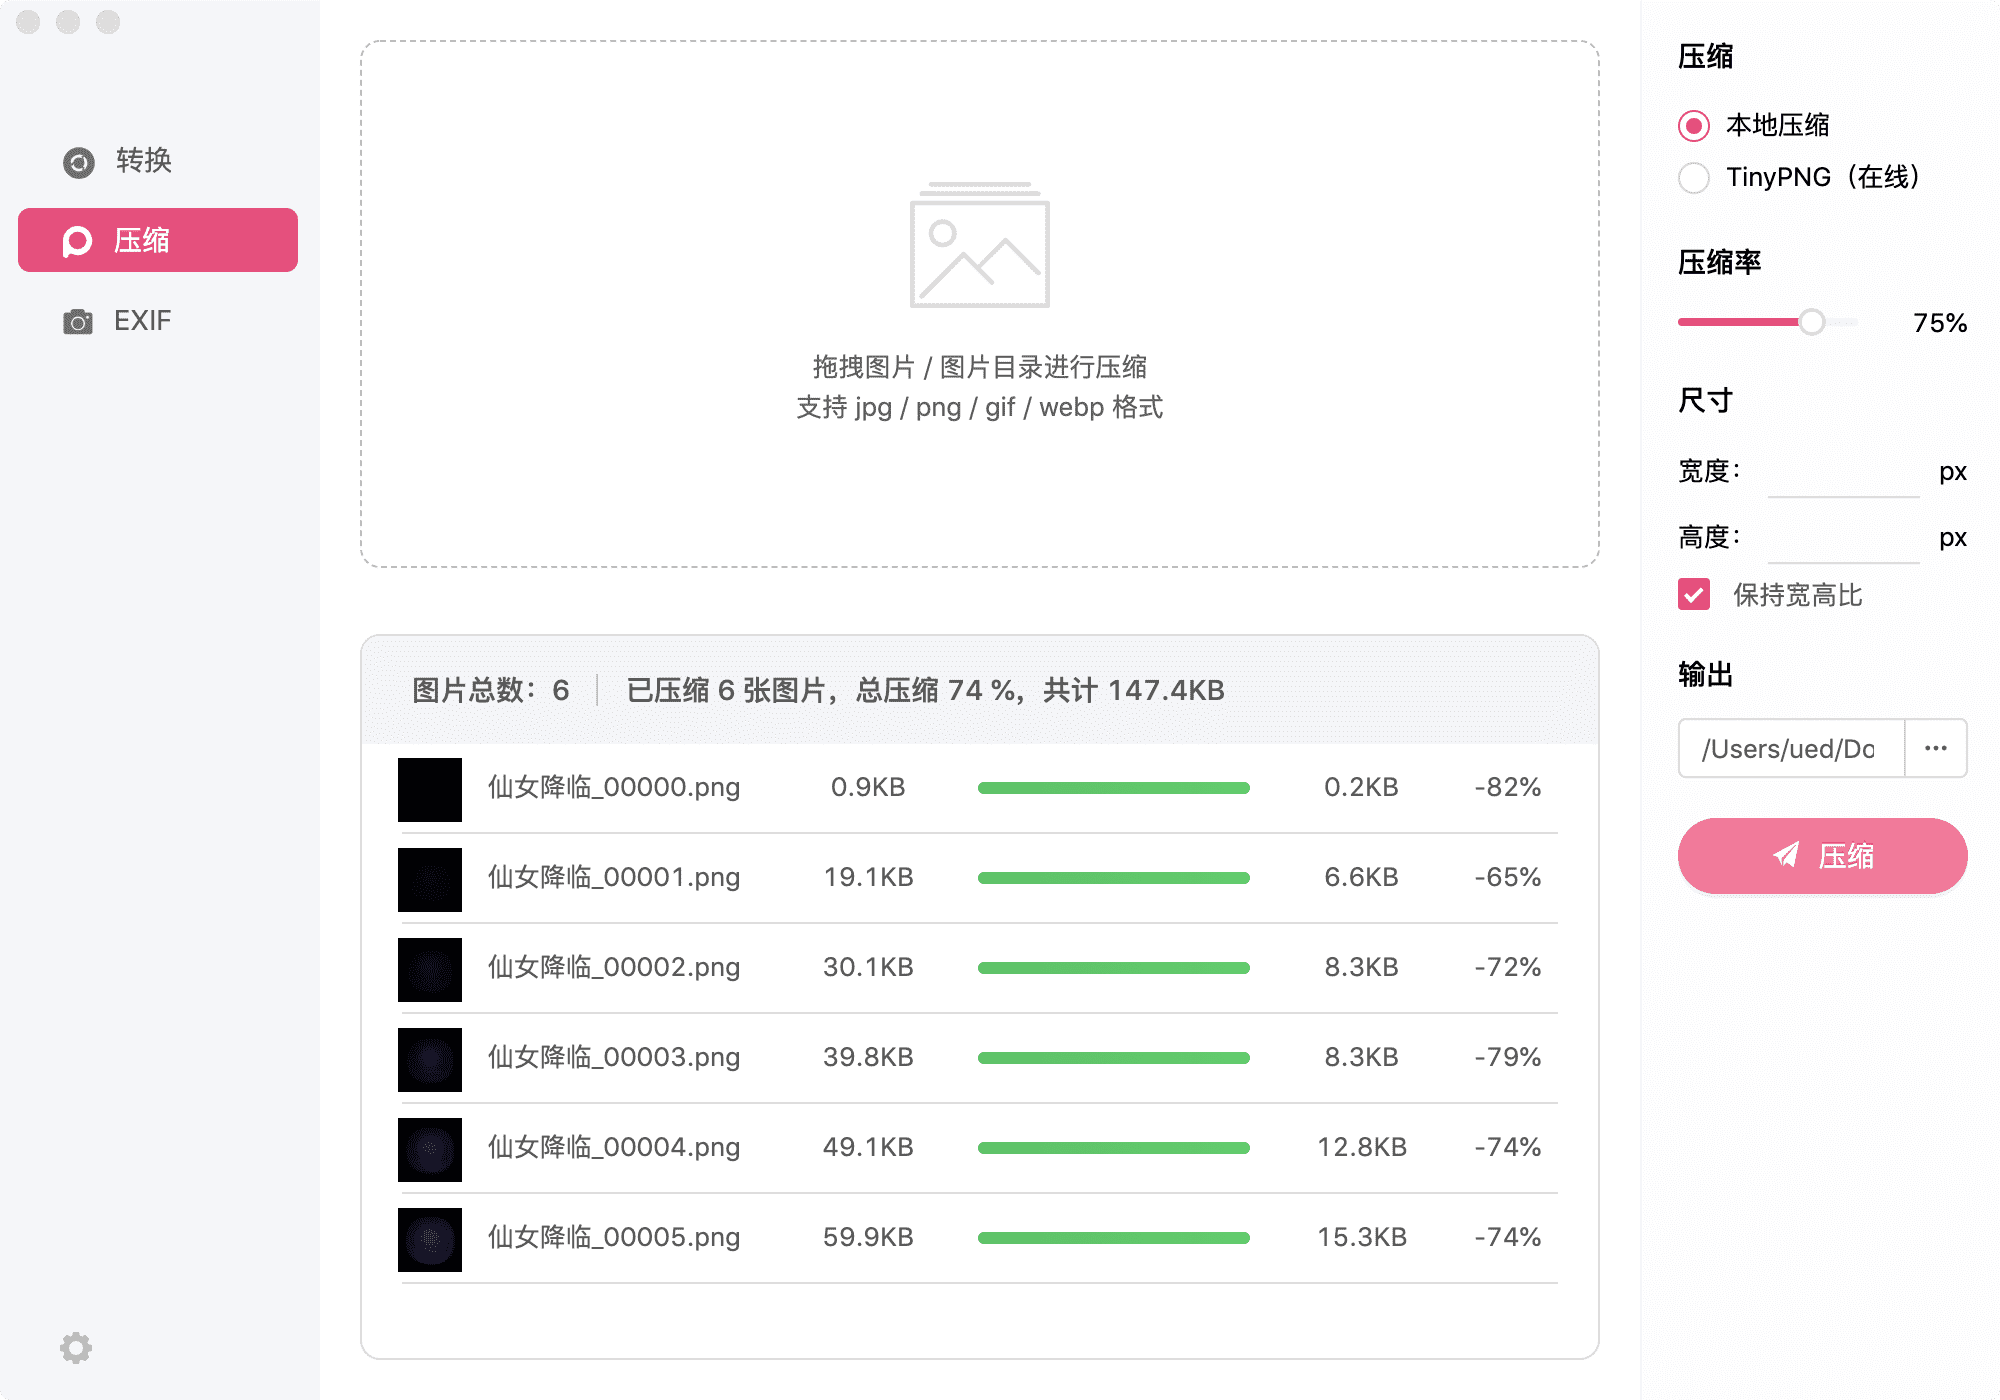
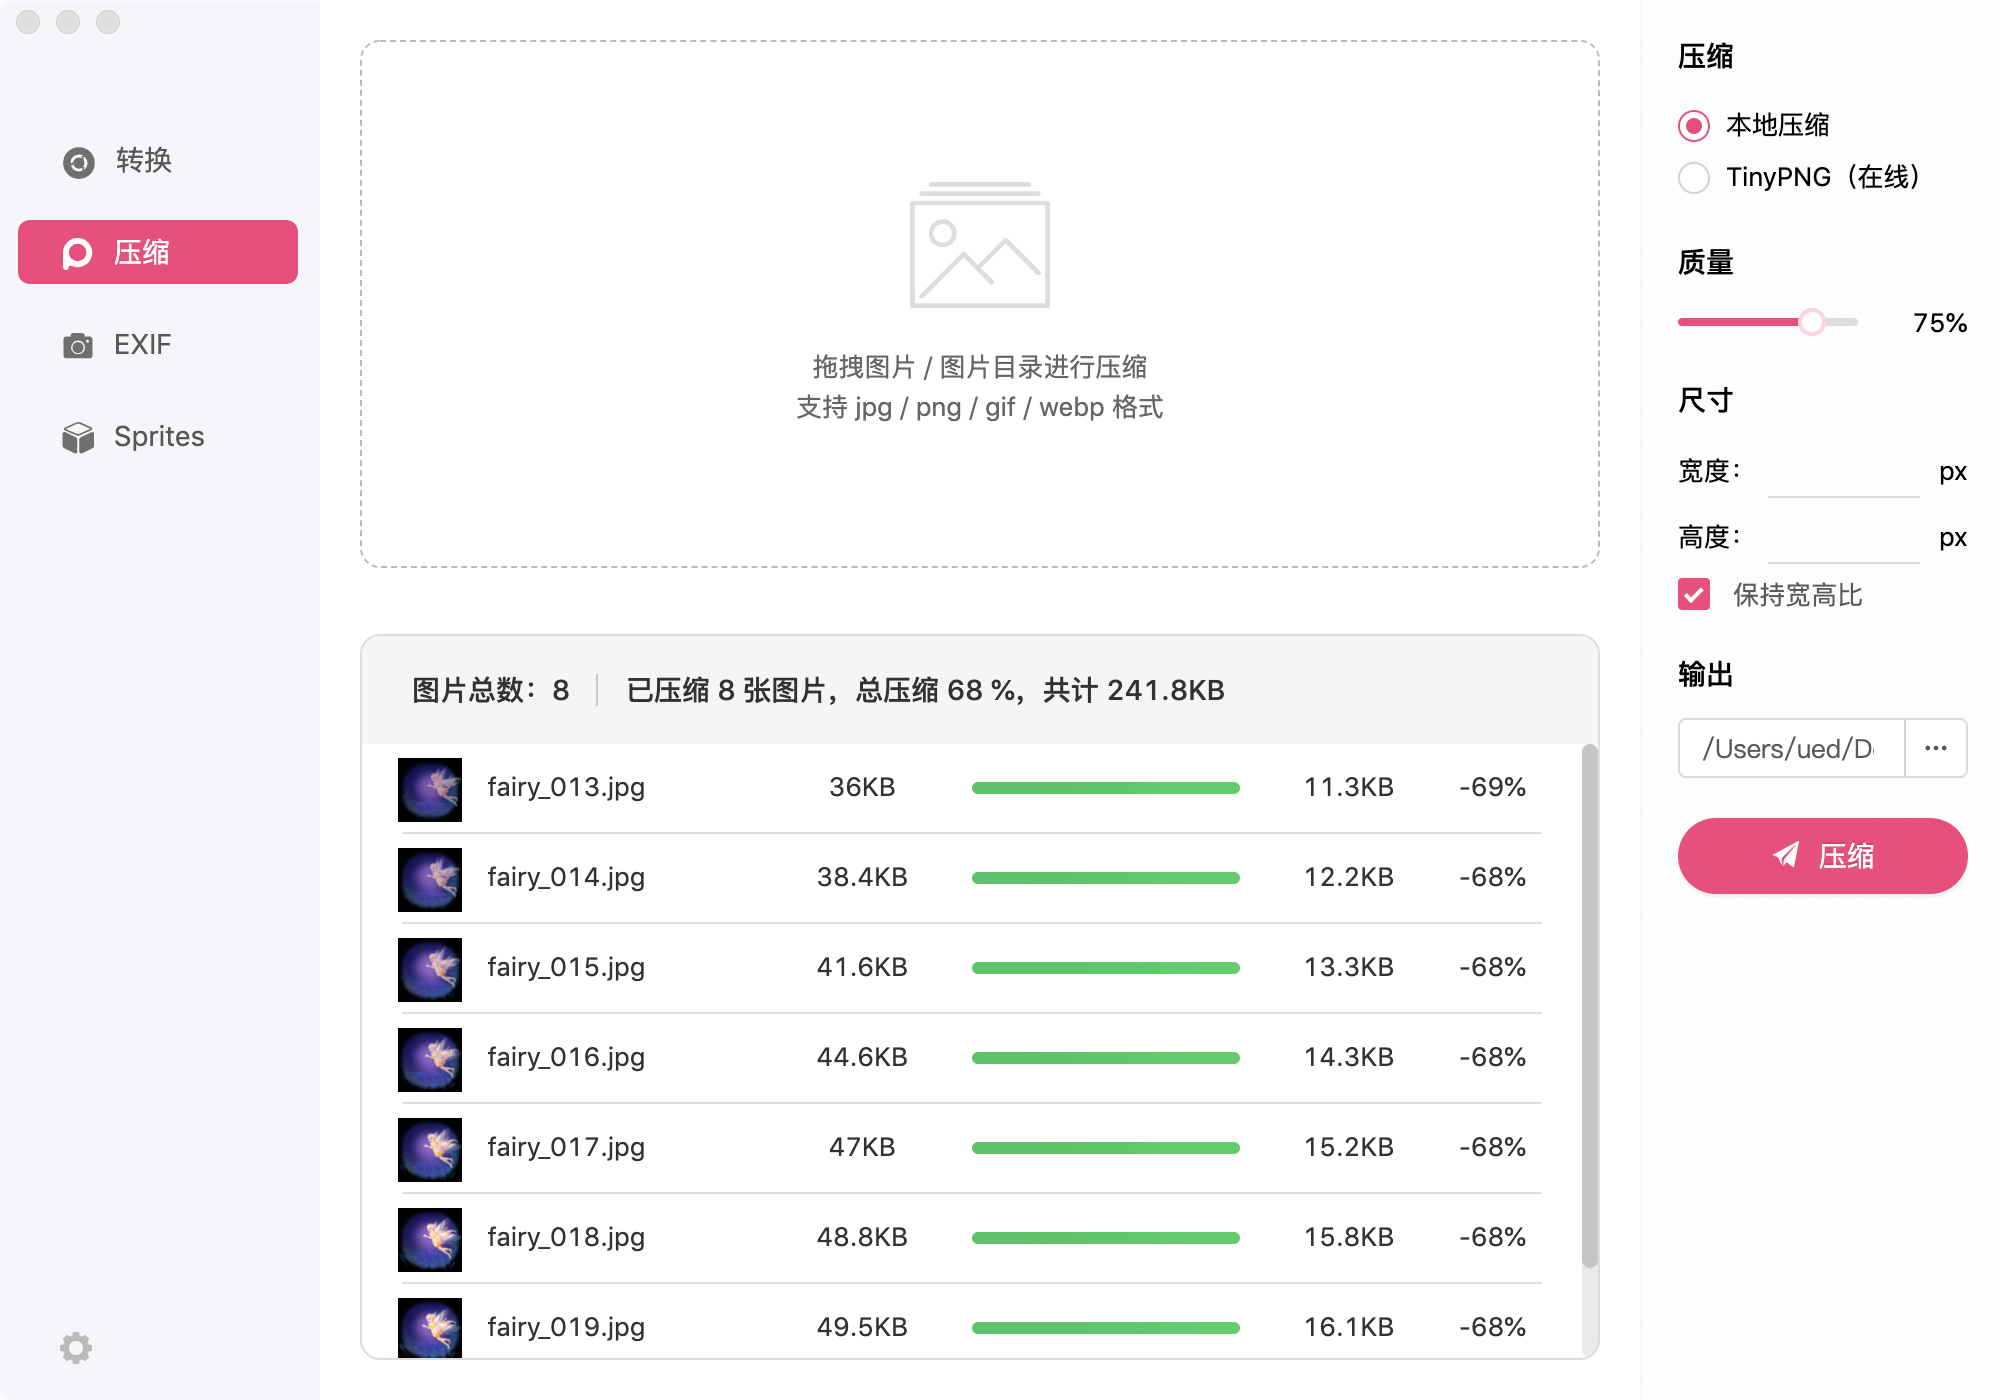
docs: 修改readme

diff --git a/index.html b/index.html
@@ -20,7 +20,7 @@
     <div class="content">
       <div><i class="content-icon iconfont icon-tick"></i><span>一键将SVGA/序列帧合成WebP/APNG/GIF</span></div>
       <div><i class="content-icon iconfont icon-tick"></i><span>动画实时预览</span></div>
-      <div><i class="content-icon iconfont icon-tick"></i><span>更好用的SVGA播放器</span></div>
+      <div><i class="content-icon iconfont icon-tick"></i><span>雪碧图合成</span></div>
       <div><i class="content-icon iconfont icon-tick"></i><span>SVGA素材下载与imageKey拷贝</span></div>
       <div><i class="content-icon iconfont icon-tick"></i><span>高效多模式的图片压缩</span></div>
       <div><i class="content-icon iconfont icon-tick"></i><span>照片EXIF信息查看</span></div>
@@ -41,8 +41,8 @@
         var doc = jsyaml.load(request.responseText)
         console.log(doc);
         document.querySelector('.version').innerHTML = 'v' + doc.version
-        document.querySelector('.window').href = 'https://legoflow.com/cherry/Cherry Setup ' + doc.version + '.exe'
-        document.querySelector('.mac').href = 'https://legoflow.com/cherry/Cherry-' + doc.version + '.dmg'
+        document.querySelector('.window').href = 'https://legoflow.com/cherry/Cherry-win-' + doc.version + '.exe'
+        document.querySelector('.mac').href = 'https://legoflow.com/cherry/Cherry-mac-' + doc.version + '.dmg'
       }
     }
     request.open('GET', 'https://legoflow.com/cherry/latest.yml')

diff --git a/README.md b/README.md
@@ -59,11 +59,21 @@
 
 <br/>
 
-使用EXIF功能
+### 使用EXIF功能
 * 输入为JPG/PNG
 * 查看照片所有信息
 
  <img src="./img/exif.png" width = "600" height = "420"/>  
+
+<br/>
+
+### 使用雪碧图功能
+* 输入为JPG/PNG
+* 生成sprite图
+* 自动生成keyframe动画
+* keyframe代码导出
+
+ <img src="./img/sprite.png" width = "600" height = "420"/>  
 
 <br/>
 
